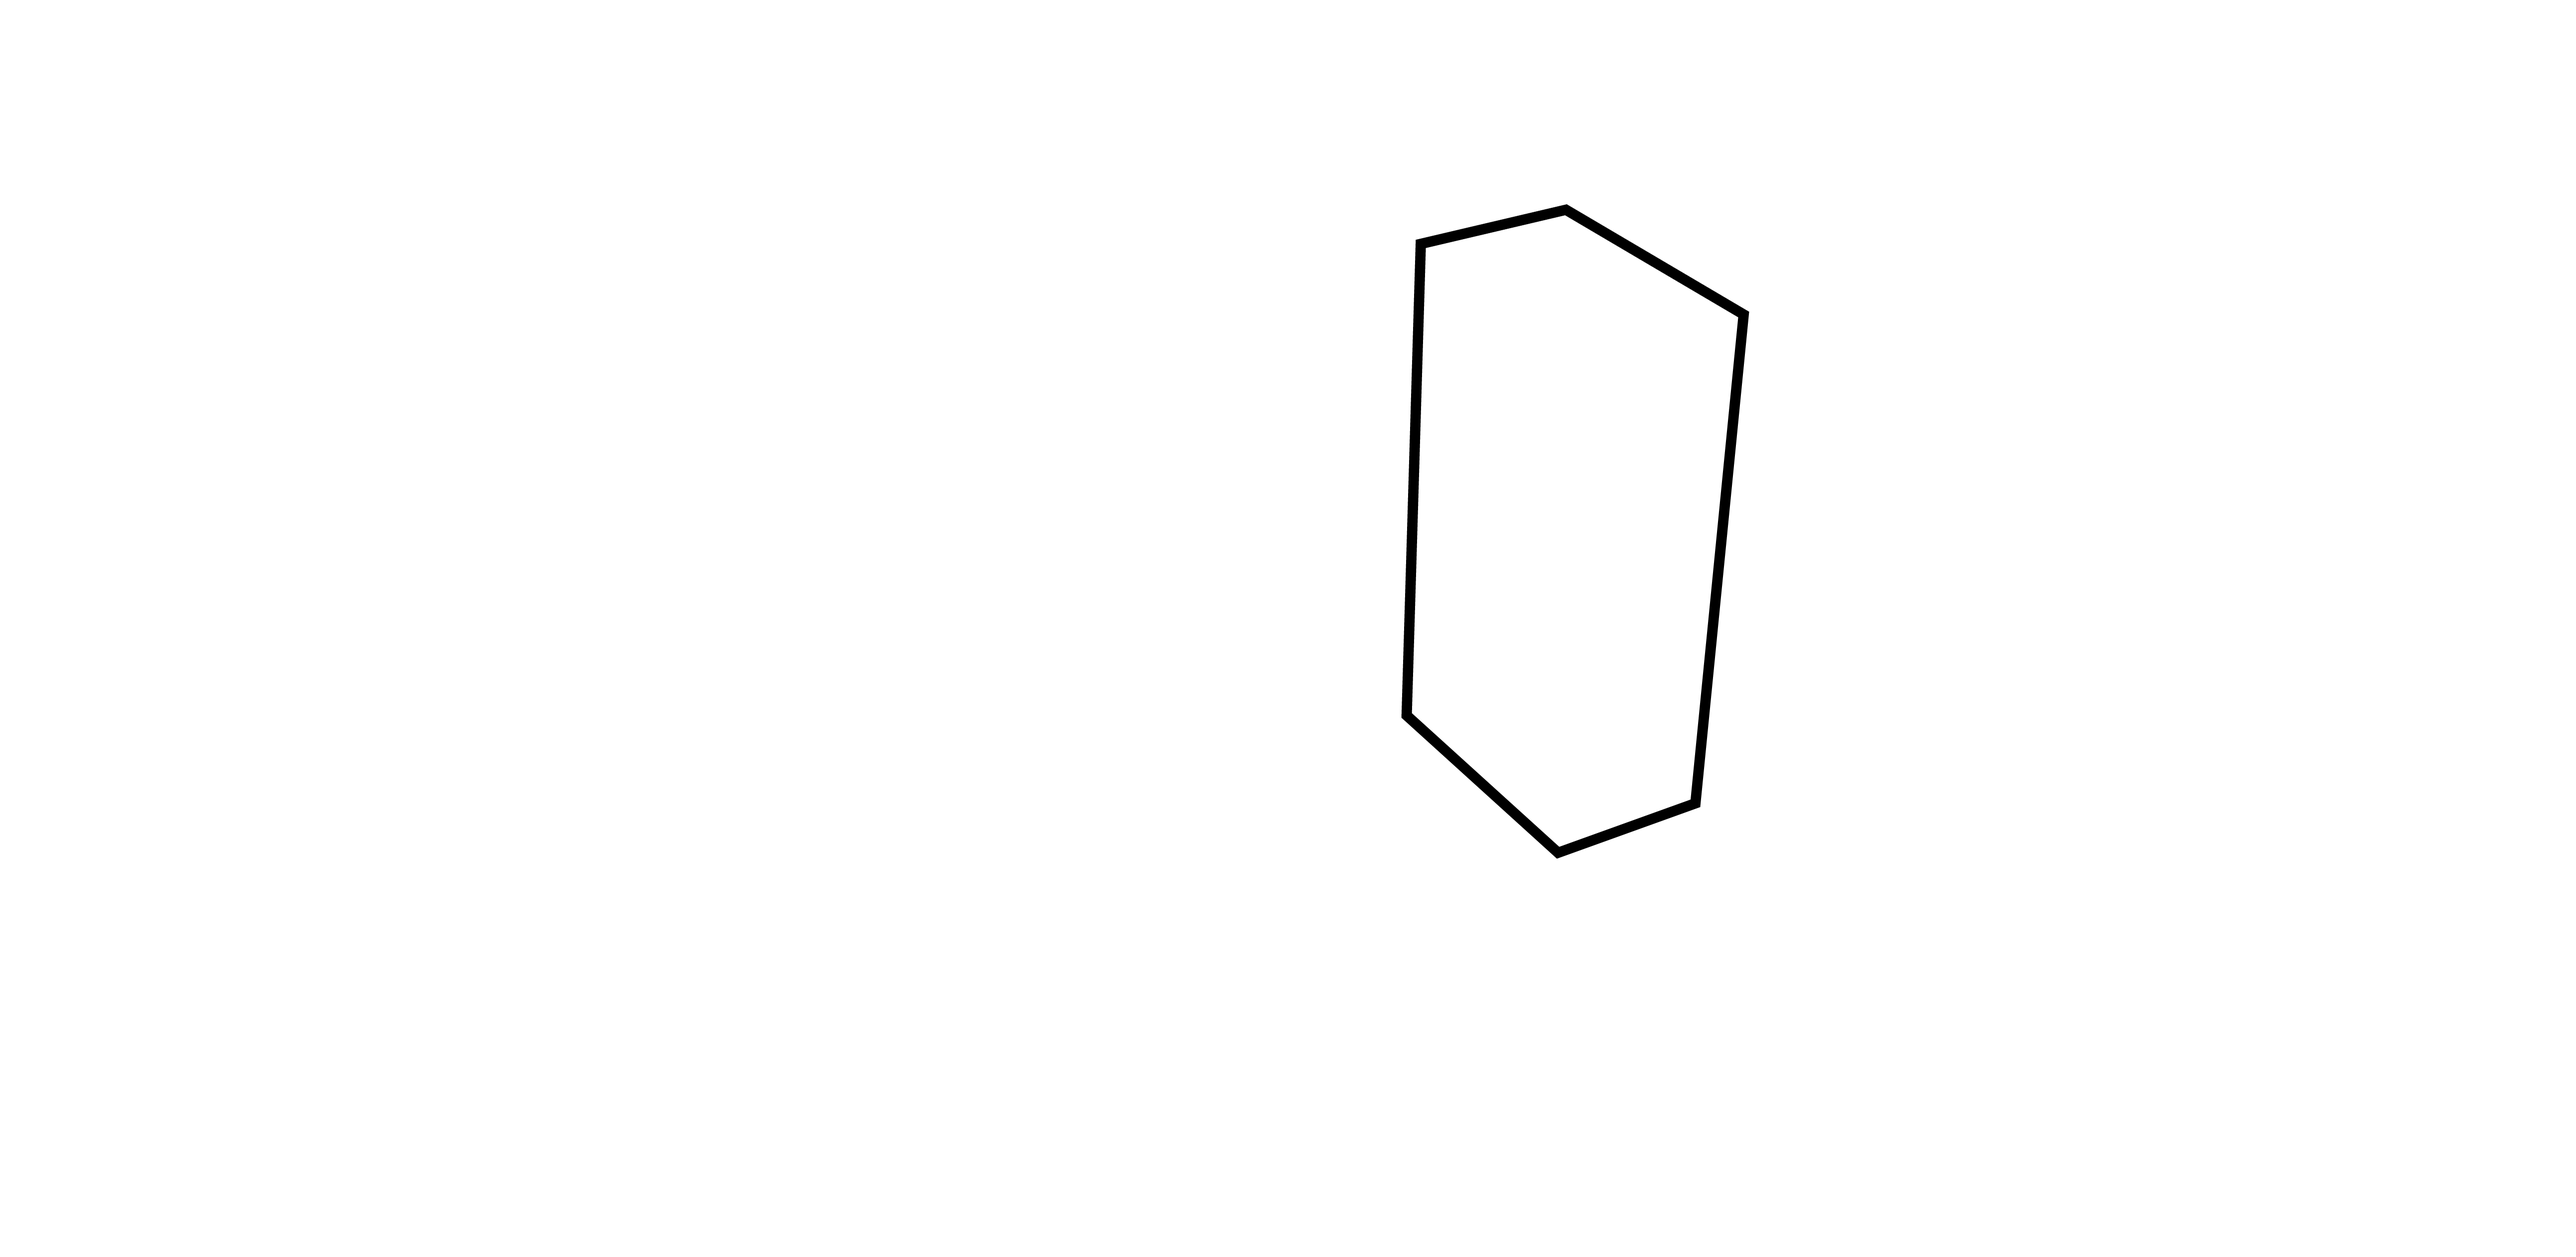
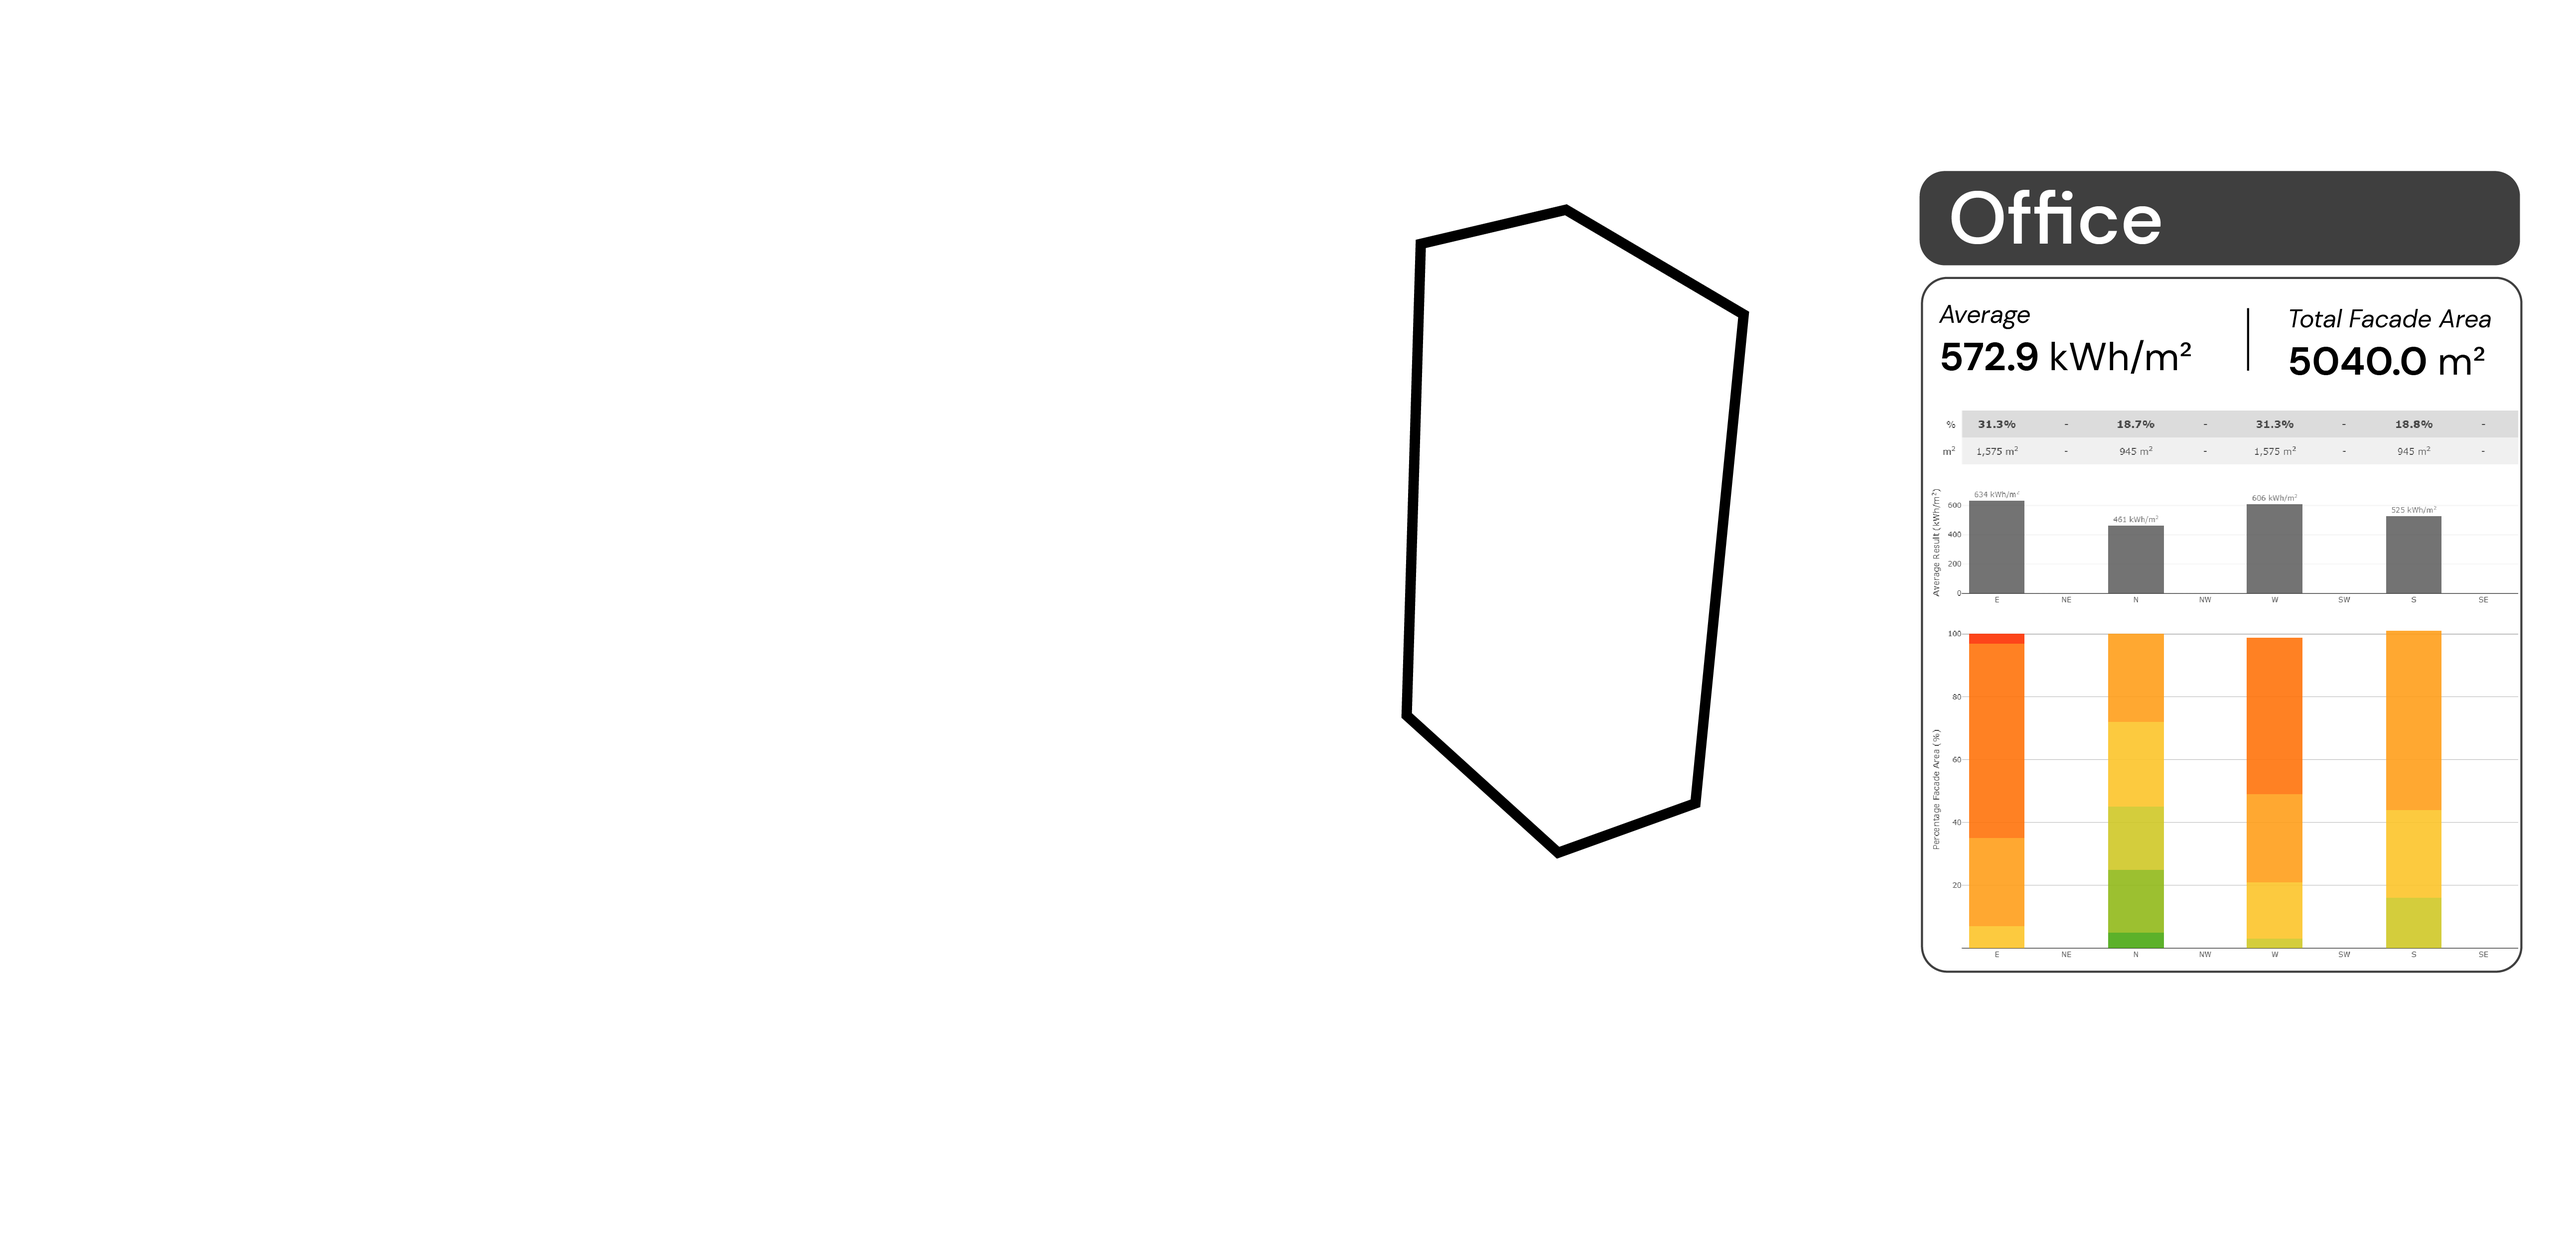
images

diff --git a/index.html b/index.html
@@ -18,6 +18,8 @@
     }
 
     article {
+      font-family: 'DM Sans';
+      font-size: 22px;
       position: relative;
       padding: 0 1.2rem;
       max-width:25rem;
@@ -28,7 +30,7 @@
       font-size: 80px;
       text-align: center;
       padding-top:300px;
-      padding-bottom:300px;
+      padding-bottom:400px;
     }
 
     h1 span{
@@ -52,7 +54,7 @@
 
     .bgImg {
         filter: none;
-        opacity: 1;
+        opacity: 0;
         position: fixed;
         top: 0;
         bottom: 0;
@@ -67,7 +69,8 @@
   </style>
 
   <head>
-    <title> Improvement of net zero carbon examples </title>
+    <title> Building Performance Simulation </title>
+    <link href='https://fonts.googleapis.com/css?family=DM Sans' rel='stylesheet'>
     <script src="https://ajax.googleapis.com/ajax/libs/jquery/3.6.0/jquery.min.js"></script>
     <script src="https://d3js.org/d3.v4.js"></script>
   </head>
@@ -75,12 +78,16 @@
   <body>
     <main>
     <div>// id='bgwrapper'>
-      <img class='bgImg' id='bg3' src='NE_Summer.png'>
-      <img class='bgImg' id='bg2' src='NE_Radiation.png'>
-      <img class='bgImg' id='bg1' src='NE_Cover.png'>
+      <img class='bgImg' id='bg3' src='NE_Radiation.png'>
+      <img class='bgImg' id='bg2' src='NE_Cover.png'>
+      <img style='opacity:1' class='bgImg' id='bg1' src='NE_Sketch.png'>
+
+      <img class='bgImg' id='line3' src='podium_outline.png'>
+      <img class='bgImg' id='line2' src='residential_outline.png'>
+      <img class='bgImg' id='line1' src='office_outline.png'>
     </div>
 
-    <h1><span> Building Performance Simulation</span></h1>
+    <h1  style='font-family: DM Sans;'><span> Building Performance Simulation</span></h1>
     <section id="scrolly">
       <article>
         <div class='article'>
@@ -109,7 +116,7 @@
             </p>
         </div>
 
-        <IFRAME style='top:100px; left: 200px;' class='htmlpos' SRC="Data_Breakdown_office.html" FRAMEBORDER="yes" BORDER="0" SCROLLING="no" ID="estframe"></IFRAME>
+        <IFRAME style='top:0px; left: 0px; -webkit-transform: scale(0.85);' class='htmlpos' SRC="Data_Breakdown_office.html" FRAMEBORDER="yes" BORDER="0" SCROLLING="no" ID="estframe"></IFRAME>
 
         <div>
             <p>In March 2020, COVID-19 brought the world of sports to a standstill, as most major events were cancelled or postponed across the globe. The NBA season was suspended; Tokyo 2020 became 2021; Wimbledon was scrapped. Even professional chess wasn't spared, ironically: the Candidates Tournament, an 8-player round robin to determine the next challenger for the World Championship against Magnus Carlsen, was postponed after 7 rounds.<br><br>
@@ -121,9 +128,9 @@
         </div>
 
         <div>
-          <img style='height:250px;margin-left:50px;' id='pie1' src='Rad_Pie_Office_Outline.png' title='Office'>
-          <img style='height:250px;margin-left:50px;' id='pie2' src='Rad_Pie_Residential_Outline.png' title='Residential'>
-          <img style='height:250px;margin-left:50px;' id='pie3' src='Rad_Pie_Podium_Outline.png' title='Podium'>
+          <img style='height:250px;margin-left:100px;' id='pie1' src='Rad_Pie_Office_Outline.png' title='Office'>
+          <img style='height:250px;margin-left:100px;' id='pie2' src='Rad_Pie_Residential_Outline.png' title='Residential'>
+          <img style='height:250px;margin-left:100px;' id='pie3' src='Rad_Pie_Podium_Outline.png' title='Podium'>
         </div>
 
         <div>
@@ -169,36 +176,31 @@
     var img = document.getElementById(imgID)
     if (window.scrollY > top && window.scrollY < bottom) {
       img.style.opacity= (window.scrollY-top)/(bottom-top)}
-    if (window.scrollY > bottom || window.scrollY < top) { img.style.opacity=1}
+    if (window.scrollY > bottom) { img.style.opacity=1}
     }
 
-  function mouseIn(imgID) {
+  function mouseIn(imgID,targetID) {
     var img = document.getElementById(imgID);
+    var targ = document.getElementById(targetID);
     img.addEventListener('mouseenter',function(event){
       img.title=img.title;
-
-      var targ = document.getElementById('bg2');
-      targ.style.opacity=0.5;
+      targ.style.opacity=1;
     })
 
     img.addEventListener('mouseleave',function(event){
-      var target = document.getElementById('bg2');
-      target.style.opacity=1;
+      targ.style.opacity=0;
     })
   }
 
   window.onscroll = function (e) {
-    //console.log(window.scrollY);
-    //var img1 = document.getElementById('bg1')
-    //if (window.scrollY > 300 && window.scrollY < 400) {
-    //  img1.style.opacity= 1-(window.scrollY-300)/100 }
-    //if (window.scrollY > 400) { img1.style.opacity=0}
-    //}
-    scrollOp(0,2800,'bg1')
-    fadeIn(2600,2800,'bg2')
-    //scrollOp(1800,3600,'bg2')
+    scrollOp(0,800,'bg1')
+    fadeIn(500,800,'bg2')
+    scrollOp(700,1800,'bg2')
+    fadeIn(1600,2800,'bg3')
 
-    mouseIn('pie1')
+    mouseIn('pie1','line1')
+    mouseIn('pie2','line2')
+    mouseIn('pie3','line3')
   }
 
 
